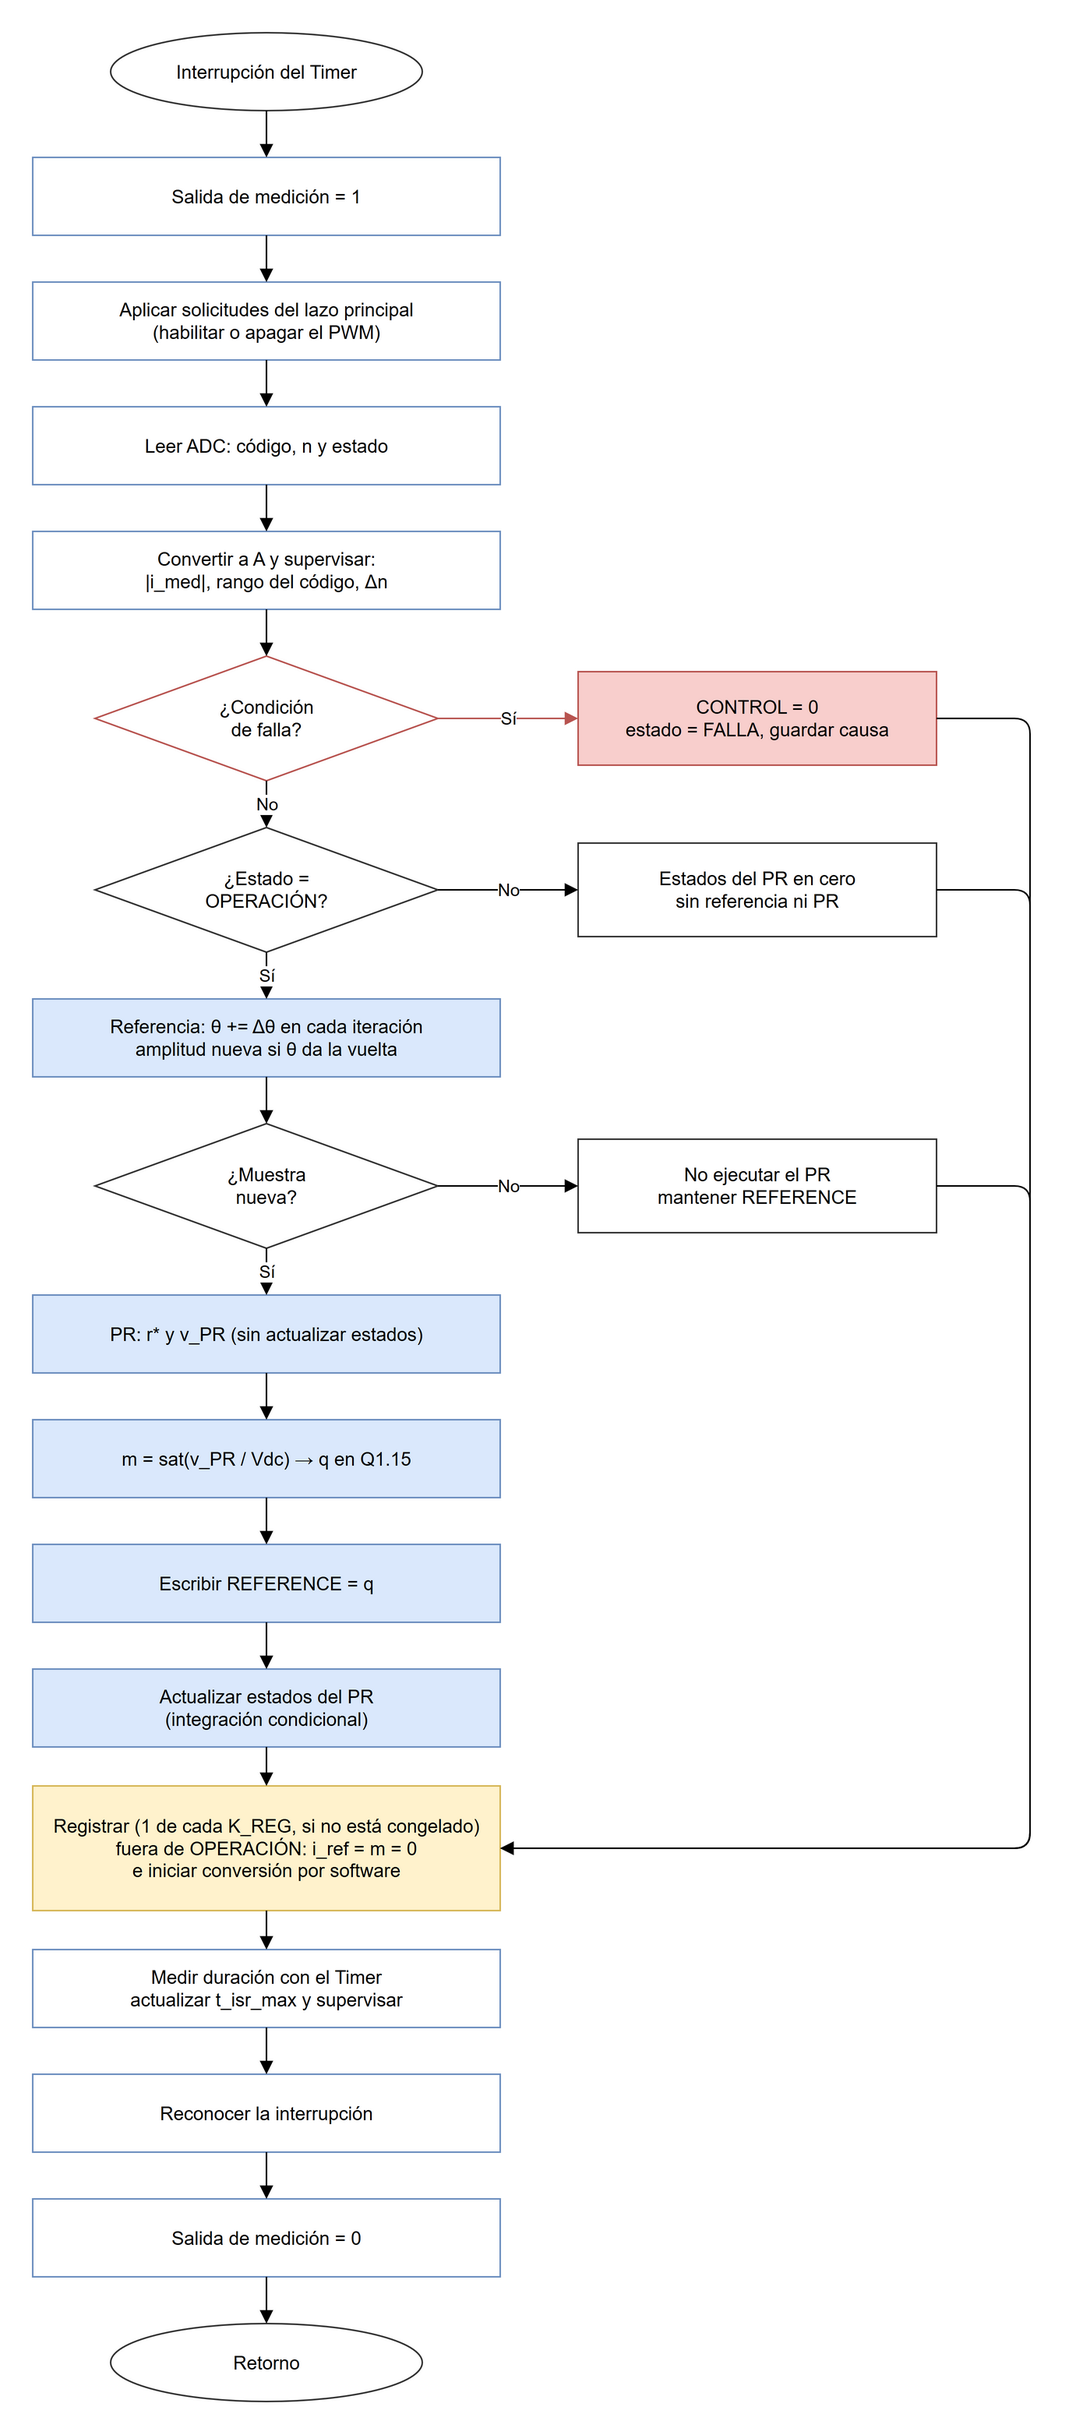
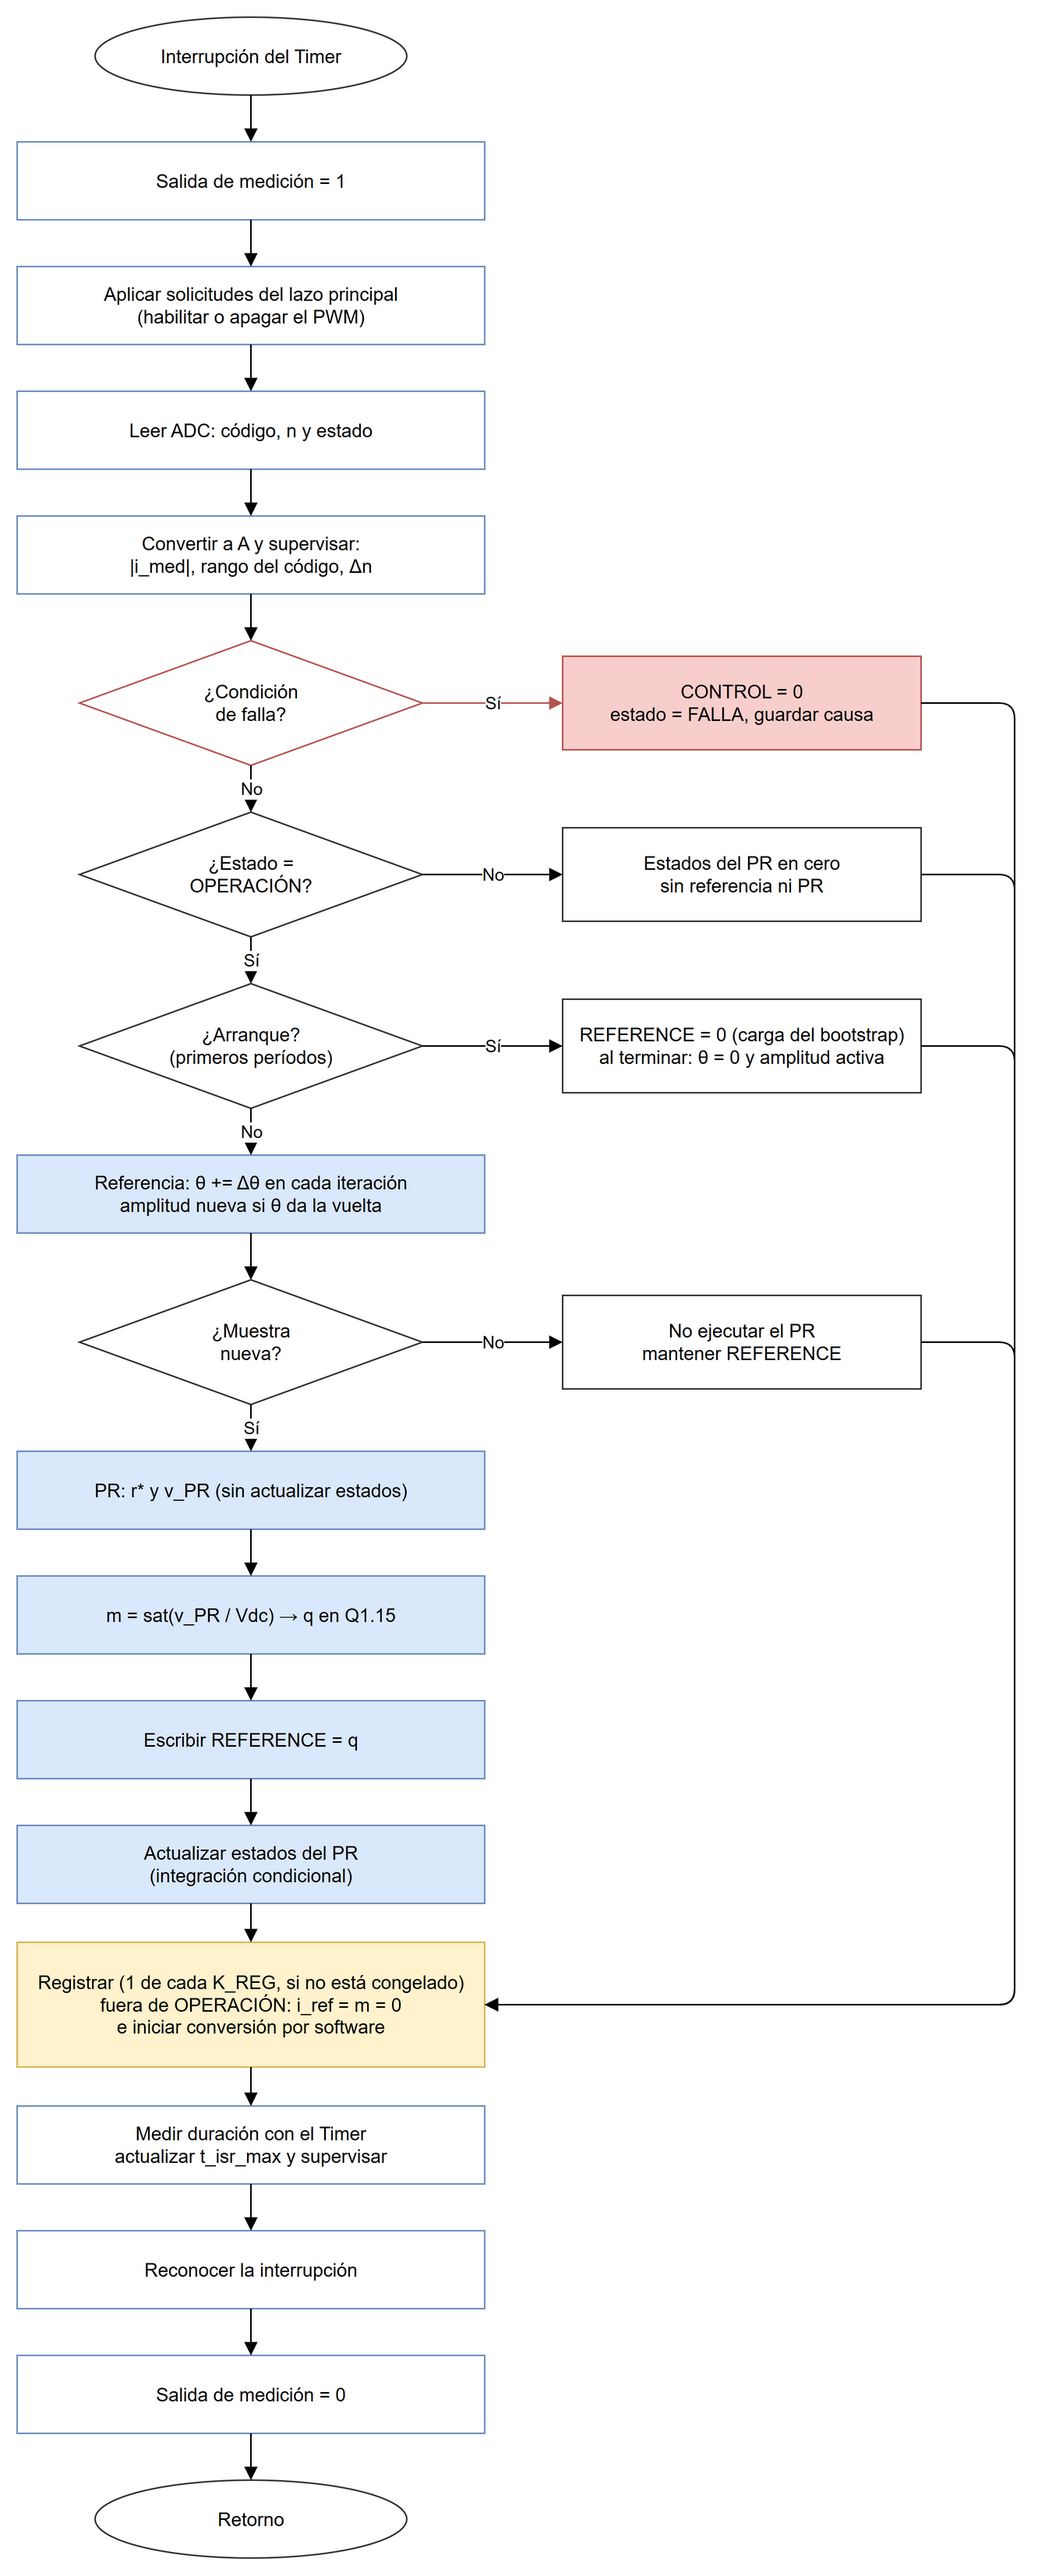
Agrega el arranque al flujo de la ISR (nivel 4)

diff --git a/Proyecto4_Inversor_Monofasico/docs/diseno/nivel_4_software.md b/Proyecto4_Inversor_Monofasico/docs/diseno/nivel_4_software.md
@@ -6,7 +6,7 @@ Este documento desarrolla los bloques del [tercer nivel del software](nivel_3_so
 
 ![Diagrama de flujo de la rutina periódica](img/nivel_4_software_isr.png)
 
-**Figura 1.** Flujo de una iteración de la ISR. Las tres decisiones, en orden, separan una falla, el control detenido y la muestra no nueva. En OPERACIÓN la fase de la referencia avanza en cada iteración, incluso si la muestra se repite; el PR solo se ejecuta con una muestra nueva. Todos los caminos se reúnen antes del registro de la muestra, de modo que el histórico conserva también lo ocurrido en DETENIDO y en FALLA.
+**Figura 1.** Flujo de una iteración de la ISR. Las cuatro decisiones, en orden, separan una falla, el control detenido, el arranque y la muestra no nueva. En OPERACIÓN la fase de la referencia avanza en cada iteración, incluso si la muestra se repite; el PR solo se ejecuta con una muestra nueva. Todos los caminos se reúnen antes del registro de la muestra, de modo que el histórico conserva también lo ocurrido en DETENIDO y en FALLA.
 
 ### Secuencia
 
@@ -16,7 +16,7 @@ Este documento desarrolla los bloques del [tercer nivel del software](nivel_3_so
 | 2 | Aplicar las solicitudes del lazo principal | Habilitar o apagar el PWM. Se hace aquí para que el PWM arranque siempre a la misma distancia de la interrupción |
 | 3 | Leer el ADC | Código, número de muestra `n` y estado, en una lectura coherente |
 | 4 | Convertir y supervisar | Corriente en amperios, rango del código, continuidad de `n` y sobrecorriente |
-| 5 | Decidir el estado | Una falla apaga el PWM y salta al paso 11. Fuera de OPERACIÓN no hay control: los estados del PR se ponen en cero y se salta al paso 11 |
+| 5 | Decidir el estado | Una falla apaga el PWM y salta al paso 11. Fuera de OPERACIÓN no hay control: los estados del PR se ponen en cero y se salta al paso 11. En los primeros `N_ARRANQUE` períodos después de habilitar se escribe REFERENCE = 0 para cargar el bootstrap de los drivers y se salta al paso 11; al terminar, `θ` arranca en cero con la amplitud pedida |
 | 6 | Referencia | En OPERACIÓN, avanzar la fase en cada iteración y aplicar el cambio de amplitud en el cruce por cero, aunque la muestra no sea nueva |
 | 7 | PR | Solo con muestra nueva: calcular la parte resonante y `v_PR` sin actualizar todavía los estados. Con una muestra repetida se mantiene REFERENCE y se salta al paso 11 |
 | 8 | Modulación | `m = sat(v_PR/Vdc)` y conversión a Q1.15 |
@@ -223,14 +223,15 @@ Al usar un número entero de períodos, la transformada en 50 Hz no tiene fuga e
 | Driver | Función | Descripción |
 |---|---|---|
 | PWM | `pwm_apagar()` | Escribe `CONTROL = 0` |
-| PWM | `pwm_configurar(freq_sel, deadtime, phase)` | Escribe y comprueba DEADTIME y TRIGGER_PHASE; devuelve error si no coinciden |
+| PWM | `pwm_configurar(freq_sel, deadtime, phase)` | Apaga, escribe frecuencia, DEADTIME, TRIGGER_PHASE y REFERENCE = 0 y los comprueba leyendo de vuelta; devuelve error si no coinciden |
 | PWM | `pwm_habilitar(freq_sel)` | Escribe CONTROL con `enable = 1` y comprueba `running` |
 | PWM | `pwm_escribir_referencia(q)` | Escribe REFERENCE con el entero Q1.15 |
-| ADC | `adc_leer(&codigo, &n, &estado)` | Lectura coherente de la muestra; registros pendientes de la adquisición |
+| ADC | `adc_configurar()` | Comprueba que ERROR esté en cero al iniciar |
+| ADC | `adc_leer(&codigo, &n, &estado)` | Lee STATUS y SAMPLE (ID y código en una lectura) y reconoce la muestra escribiendo su token en ACK_ID |
 | ADC | `adc_iniciar_conversion()` | Inicio por software, usado en DETENIDO y FALLA |
-| GPIO | `gpio_leer_entradas()`, `gpio_escribir_led(mascara)`, `gpio_medicion(nivel)` | Canales y bits según la plataforma |
-| UART | `uart_tx_llena()`, `uart_escribir(byte)` | Bit de FIFO llena y escritura de un byte, sin espera |
-| Timer | `timer_configurar(carga)`, `timer_reconocer()`, `timer_contador()` | Modo de generación, reconocimiento y lectura para medir la duración |
+| GPIO | `gpio_iniciar()`, `gpio_leer_entradas()`, `gpio_escribir_led(mascara)`, `gpio_medicion(nivel)` | Canales y bits según la plataforma; LED y medición en canales distintos para que la ISR y el lazo no se pisen |
+| UART | `uart_iniciar()`, `uart_tx_llena()`, `uart_escribir(byte)` | Reinicio de FIFOs, bit de FIFO llena y escritura de un byte, sin espera |
+| Timer | `timer_configurar(carga)`, `timer_arrancar()`, `timer_reconocer()`, `timer_contador()` | Contador 0 en modo de generación con recarga e interrupción; contador 1 libre para medir la duración |
 
 Las direcciones base se toman de `xparameters.h`, que genera Vitis a partir del hardware exportado. Así, un cambio en el Address Editor no requiere editar el código. Los offsets del PWM y de la adquisición se definen en el encabezado de cada driver, según sus contratos.
 
@@ -247,6 +248,7 @@ Las direcciones base se toman de `xparameters.h`, que genera Vitis a partir del 
 | `AMPLITUDES` | Enunciado | 0,2; 0,5 y 1,0 A pico |
 | `N_BUF`, `K_REG` | Software | Registro de muestras |
 | `N_FALLA_MUESTRAS`, `MARGEN_ISR`, `T_REBOTE` | Software | Supervisión y botones |
+| `N_ARRANQUE` | Aguilar | Períodos con REFERENCE = 0 al habilitar (bootstrap) |
 
 ## 7. Comprobaciones por bloque
 
